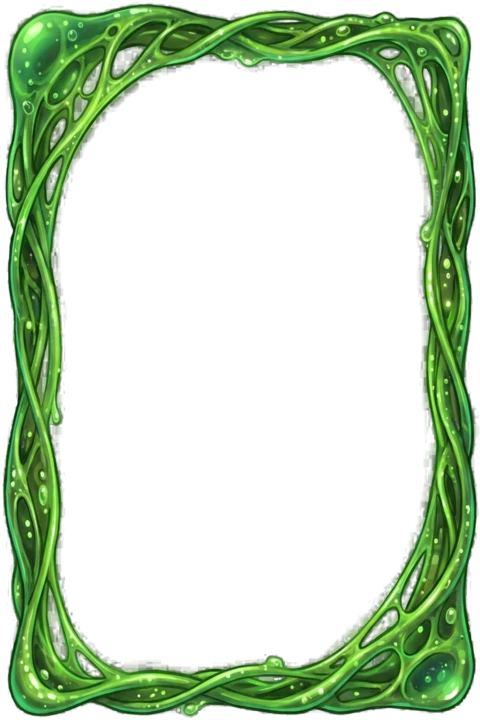
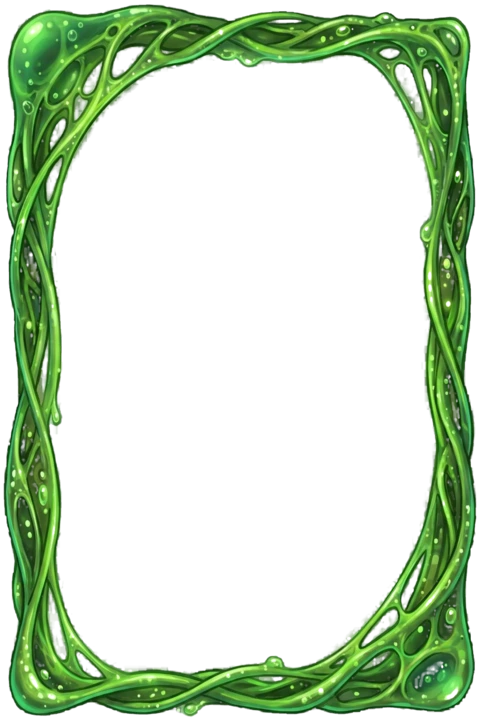
Fit ornate card frames and add Exemplars Crystals

diff --git a/docs/live-badges-home.css b/docs/live-badges-home.css
@@ -145,7 +145,30 @@
   clip-path: polygon(3% .45%, 97% .45%, 99.45% 2%, 99.45% 98%, 97.5% 99.55%, 3% 99.55%, .55% 98%, .55% 2%);
 }
 :is([data-card-frame="growth-vines"], :where(:root[data-card-frame-choice="growth-vines"]) [data-card-face]:not([data-card-frame]))[data-rarity] {
-  --decoration-frame: url('./art/frame-growth-vines.webp');
+  --decoration-frame: url('./art/frame-growth-vines.webp?v=2');
+  --decoration-mask: url('./art/frame-growth-vines-mask.png');
+  --decoration-status-inset: 8%;
+}
+:is([data-card-frame="exemplars-crystal"], :where(:root[data-card-frame-choice="exemplars-crystal"]) [data-card-face]:not([data-card-frame]))[data-rarity] {
+  --decoration-frame: url('./art/frame-exemplars-crystal.webp');
+  --decoration-mask: url('./art/frame-exemplars-crystal-mask.png');
+  --decoration-status-inset: 12%;
+}
+:is(
+  [data-card-frame="growth-vines"], [data-card-frame="exemplars-crystal"],
+  :where(:root:is([data-card-frame-choice="growth-vines"], [data-card-frame-choice="exemplars-crystal"])) [data-card-face]:not([data-card-frame])
+)[data-rarity] {
+  mask: var(--decoration-mask) center / 100% 100% no-repeat;
+  --decoration-shadow: drop-shadow(0 0 clamp(2px, .85dvh, 10px) #01040ace);
+  > .card-art-crop { scale: .97; }
+  > :is(.stat-badge-power, .card-kind) { top: 4.5%; left: 7%; }
+  > .stat-badge-armor { top: 4.5%; right: 7%; }
+  > .stat-badge-provision { right: 7%; bottom: 4.5%; }
+  > :is(.card-state, .stat-order-control, .stat-badge-hourglass, .stat-badge-order, .stat-badge-infection) {
+    bottom: var(--decoration-status-inset);
+  }
+  > :is(.stat-badge-chapters, .stat-badge-target) { top: var(--decoration-status-inset); }
+  > .stat-badge-infection { left: 9%; }
 }
 :is(
   [data-card-frame]:not([data-card-frame="standard"]),
@@ -153,7 +176,7 @@
 )[data-rarity]::before {
   border: 0;
   background: var(--decoration-frame) center / 100% 100% no-repeat;
-  filter: drop-shadow(0 1px clamp(1px, .42dvh, 3px) #03060ca6);
+  filter: var(--decoration-shadow, drop-shadow(0 1px clamp(1px, .42dvh, 3px) #03060ca6));
 }
 
 /* Deck selection */

diff --git a/docs/index.html b/docs/index.html
@@ -10,7 +10,7 @@
   <link rel="apple-touch-icon" href="./icon-192.png">
   <link rel="stylesheet" href="./style.css?v=hounds-1">
   <link rel="stylesheet" href="./field.css?v=card-kind-2">
-  <link rel="stylesheet" href="./live-badges-home.css?v=growth-vines-1">
+  <link rel="stylesheet" href="./live-badges-home.css?v=fitted-frames-1">
   <link rel="stylesheet" href="./reward-book.css?v=action-buttons-1">
   <link rel="stylesheet" href="./economy.css?v=action-buttons-1">
   <link rel="stylesheet" href="./base.css?v=action-buttons-1">
@@ -21,7 +21,7 @@
   <link rel="stylesheet" href="./ranks.css?v=monthly-ranks-1">
   <link rel="stylesheet" href="./decorations.css?v=match-panels-2">
   <link rel="stylesheet" href="./reward-reveal.css?v=reward-reveal-1">
-  <script type="module" src="./app.js?v=growth-vines-1"></script>
+  <script type="module" src="./app.js?v=fitted-frames-1"></script>
 </head>
 <body>
   <div id="app">

diff --git a/docs/app.js b/docs/app.js
@@ -28,7 +28,7 @@ import { createResourceBar } from './ui/resources.js?v=reward-reveal-1';
 import { aimAnchor, aimTone, bindTargeting } from './ui/targeting.js?v=targeting-1';
 import { questComplete } from './game/tavern.js?v=hounds-1';
 import { rankStanding, wonRounds } from './game/ranks.js?v=monthly-ranks-1';
-import { BATTLEFIELD_STORAGE_KEY, createBattlefieldPreferences, createFramePreferences, decorationsScreen, FRAME_STORAGE_KEY } from './ui/decorations.js?v=growth-vines-1';
+import { BATTLEFIELD_STORAGE_KEY, createBattlefieldPreferences, createFramePreferences, decorationsScreen, FRAME_STORAGE_KEY } from './ui/decorations.js?v=fitted-frames-1';
 import { rankScreen } from './ui/rank-screen.js?v=monthly-ranks-1';
 import { leagueScreen, LEAGUE_OVERVIEW_QUERY } from './ui/league-screen.js?v=hounds-1';
 import { resetProgress } from './game/reset-progress.js?v=hounds-1';

diff --git a/tests/card-badges.test.js b/tests/card-badges.test.js
@@ -138,6 +138,9 @@ test('frame preferences persist, refresh and restore the standard selection', as
   assert.equal(preferences.select('growth-vines'), true);
   assert.equal(root.dataset.cardFrameChoice, 'growth-vines');
   assert.equal(createFramePreferences(storage, { dataset: {} }).current(), 'growth-vines');
+  assert.equal(preferences.select('exemplars-crystal'), true);
+  assert.equal(root.dataset.cardFrameChoice, 'exemplars-crystal');
+  assert.equal(createFramePreferences(storage, { dataset: {} }).current(), 'exemplars-crystal');
   values.delete(FRAME_STORAGE_KEY);
   preferences.refresh();
   assert.equal(root.dataset.cardFrameChoice, 'standard');

diff --git a/docs/badges-demo.html b/docs/badges-demo.html
@@ -7,7 +7,7 @@
   <title>Подложки карт · Gatefall</title>
   <link rel="stylesheet" href="./style.css?v=hounds-1">
   <link rel="stylesheet" href="./field.css?v=card-kind-2">
-  <link rel="stylesheet" href="./live-badges-home.css?v=growth-vines-1">
+  <link rel="stylesheet" href="./live-badges-home.css?v=fitted-frames-1">
   <link rel="stylesheet" href="./demo/badges-demo.css?v=hud-trial-1">
   <link rel="stylesheet" href="./economy.css?v=interface-polish-1">
   <link rel="stylesheet" href="./card-preview.css?v=preview-polish-1">

diff --git a/docs/ui/decorations.js b/docs/ui/decorations.js
@@ -10,6 +10,7 @@ const frames = [
   { id: 'standard', name: 'Стандартные рамки' },
   { id: 'protectorate-rampart', name: 'Рубеж Протектората' },
   { id: 'growth-vines', name: 'Лозы Поросли' },
+  { id: 'exemplars-crystal', name: 'Кристаллы Безупречных' },
 ];
 
 const battlefields = [
